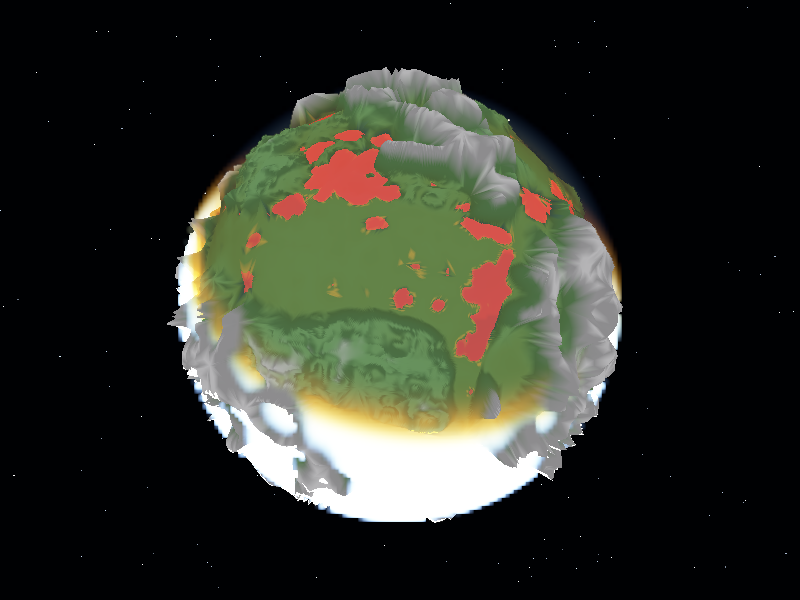
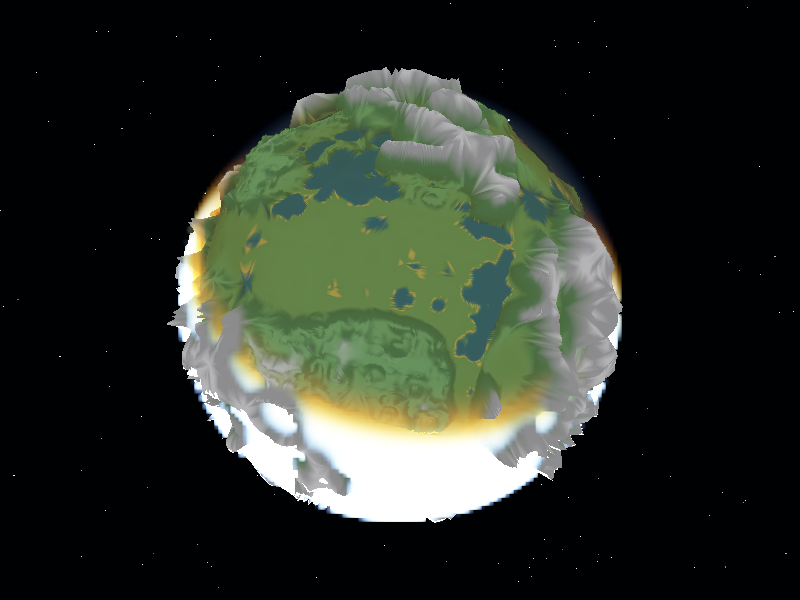
Keep reflected day scene off night-side oceans

diff --git a/tests/lighting/test_terrain_shadow_render.cpp b/tests/lighting/test_terrain_shadow_render.cpp
@@ -50,7 +50,7 @@ public:
     Mesh ridges, sea;
     glm::dvec3 sun = glm::normalize(glm::dvec3(-1, 0, 1));
 
-    GLuint framebuffer = 0, colorBuffer = 0, depthBuffer = 0;
+    GLuint framebuffer = 0, colorBuffer = 0, depthBuffer = 0, reflectionTexture = 0;
 
     ShadowScene() {
         // Hidden windows can have an unallocated default framebuffer on native
@@ -69,6 +69,12 @@ public:
         glReadBuffer(GL_COLOR_ATTACHMENT0);
         if (glCheckFramebufferStatus(GL_FRAMEBUFFER) != GL_FRAMEBUFFER_COMPLETE)
             throw std::runtime_error("Shadow test framebuffer is incomplete");
+        glGenTextures(1, &reflectionTexture);
+        glActiveTexture(GL_TEXTURE0); glBindTexture(GL_TEXTURE_2D, reflectionTexture);
+        const float reflected[] = {0.8f, 0.8f, 0.8f, 1.0f};
+        glTexImage2D(GL_TEXTURE_2D, 0, GL_RGBA32F, 1, 1, 0, GL_RGBA, GL_FLOAT, reflected);
+        glTexParameteri(GL_TEXTURE_2D, GL_TEXTURE_MIN_FILTER, GL_NEAREST);
+        glTexParameteri(GL_TEXTURE_2D, GL_TEXTURE_MAG_FILTER, GL_NEAREST);
         settings.resolution = 512;
         buildRidges(ridges, true);
         for (auto p : {glm::vec3(-1, -1, 0.01), glm::vec3(1, -1, 0.01),
@@ -84,11 +90,13 @@ public:
         glDeleteFramebuffers(1, &framebuffer);
         glDeleteRenderbuffers(1, &colorBuffer);
         glDeleteRenderbuffers(1, &depthBuffer);
+        glDeleteTextures(1, &reflectionTexture);
     }
 
     Image render(bool waterSurface = false, glm::dvec3 indirect = glm::dvec3(0),
                  float waterRadiusScale = 1.0f, bool secondBody = false,
-                 bool planeReceiver = false, float exposure = 1.0f) {
+                 bool planeReceiver = false, float exposure = 1.0f,
+                 float reflectionFraction = 0.0f) {
         maps.ensure(secondBody ? 2 : 1, settings);
         if (settings.enabled) {
             maps.begin(0, depth, sun, 1.5);
@@ -129,8 +137,10 @@ public:
             shader.setFloat3("uCameraPosition", 0, 0, 3);
             shader.setFloat3("uWaterColor", 1, 1, 1);
             shader.setFloat("uOpacity", 1);
-            shader.setFloat("uReflectionFraction", 0);
+            shader.setFloat("uReflectionFraction", reflectionFraction);
             shader.setInt("uReflectionTexture", 0);
+            glActiveTexture(GL_TEXTURE0);
+            glBindTexture(GL_TEXTURE_2D, reflectionTexture);
             shader.setMat4("uReflectionViewProjection", glm::value_ptr(glm::mat4(1)));
             sea.draw();
         } else if (planeReceiver) sea.draw();
@@ -188,6 +198,19 @@ TEST(TerrainShadowRender, ShadowsWaterAndAccountsForItsDifferentRadius) {
     }
 }
 
+TEST(TerrainShadowRender, NightOceanDoesNotMirrorBrightDayScene) {
+    ShadowScene scene;
+    const glm::dvec3 indirect(0.001, 0.001, 0.001);
+    scene.sun = {0,0,-1}; // Sea faces the camera, but the Sun is behind it.
+    const auto night = scene.render(true, indirect, 1, false, false, 1, 1);
+    for (int x : {-0.7f, 0.0f, 0.7f}) {
+        const auto value = pixel(night,x);
+        for (int c : value) EXPECT_LT(c, 25) << "night water x=" << x;
+    }
+    scene.sun = {0,0,1};
+    const auto day = scene.render(true, indirect, 1, false, false, 1, 1);
+    EXPECT_GT(pixel(day,0.7)[0], 150);
+}
 TEST(TerrainShadowRender, SunMotionResolutionReloadAndOtherBodiesDoNotLeaveStaleMaps) {
     ShadowScene scene;
     for (int resolution : {256, 1024, 512}) {

diff --git a/docs/captures/GENERATION.md b/docs/captures/GENERATION.md
@@ -4,24 +4,24 @@
 
 All 12 README images were regenerated with the current renderer. Earlier capture dates and versions were not recorded.
 
-Base source revision: `1eafe2bbb37d721c525e8284864b37e4f34fa6de` plus the working-tree changes identified by the source fingerprint.
+Base source revision: `47394a72bb3e19492565339a6c6b146c8a003cf7` plus the working-tree changes identified by the source fingerprint.
 Build: RelWithDebInfo. Display: Xvfb. OpenGL: Mesa llvmpipe (software rendering).
 The performance panel reports this capture environment, not hardware GPU performance.
 
 | Image | Version | Last generated (UTC) |
 | --- | --- | --- |
-| [solar-view.png](../screenshots/solar-view.png) | 0.0.1 | 2026-09-28T14:38:41+00:00 |
-| [surface-view.png](../screenshots/surface-view.png) | 0.0.1 | 2026-09-28T14:38:42+00:00 |
-| [planet-orbit.png](../screenshots/planet-orbit.png) | 0.0.1 | 2026-09-28T14:38:44+00:00 |
-| [moonlit-night.png](../screenshots/moonlit-night.png) | 0.0.1 | 2026-09-28T14:38:44+00:00 |
-| [moonless-night.png](../screenshots/moonless-night.png) | 0.0.1 | 2026-09-28T14:38:45+00:00 |
-| [performance-overlay.png](../screenshots/performance-overlay.png) | 0.0.1 | 2026-09-28T14:39:06+00:00 |
-| [atmosphere-day.png](../screenshots/atmosphere-day.png) | 0.0.1 | 2026-09-28T14:39:10+00:00 |
-| [atmosphere-sunset.png](../screenshots/atmosphere-sunset.png) | 0.0.1 | 2026-09-28T14:39:13+00:00 |
-| [atmosphere-mist.png](../screenshots/atmosphere-mist.png) | 0.0.1 | 2026-09-28T14:39:16+00:00 |
-| [atmosphere-dust.png](../screenshots/atmosphere-dust.png) | 0.0.1 | 2026-09-28T14:39:19+00:00 |
-| [twilight.png](../screenshots/twilight.png) | 0.0.1 | 2026-09-28T14:39:22+00:00 |
-| [terrain-shadows.png](../screenshots/terrain-shadows.png) | 0.0.1 | 2026-09-28T14:39:22+00:00 |
+| [solar-view.png](../screenshots/solar-view.png) | 0.0.1 | 2026-09-28T14:42:26+00:00 |
+| [surface-view.png](../screenshots/surface-view.png) | 0.0.1 | 2026-09-28T14:42:28+00:00 |
+| [planet-orbit.png](../screenshots/planet-orbit.png) | 0.0.1 | 2026-09-28T14:42:29+00:00 |
+| [moonlit-night.png](../screenshots/moonlit-night.png) | 0.0.1 | 2026-09-28T14:42:30+00:00 |
+| [moonless-night.png](../screenshots/moonless-night.png) | 0.0.1 | 2026-09-28T14:42:30+00:00 |
+| [performance-overlay.png](../screenshots/performance-overlay.png) | 0.0.1 | 2026-09-28T14:42:49+00:00 |
+| [atmosphere-day.png](../screenshots/atmosphere-day.png) | 0.0.1 | 2026-09-28T14:42:53+00:00 |
+| [atmosphere-sunset.png](../screenshots/atmosphere-sunset.png) | 0.0.1 | 2026-09-28T14:42:56+00:00 |
+| [atmosphere-mist.png](../screenshots/atmosphere-mist.png) | 0.0.1 | 2026-09-28T14:42:59+00:00 |
+| [atmosphere-dust.png](../screenshots/atmosphere-dust.png) | 0.0.1 | 2026-09-28T14:43:03+00:00 |
+| [twilight.png](../screenshots/twilight.png) | 0.0.1 | 2026-09-28T14:43:05+00:00 |
+| [terrain-shadows.png](../screenshots/terrain-shadows.png) | 0.0.1 | 2026-09-28T14:43:06+00:00 |
 
 Exact commands, image SHA-256 hashes and renderer details are in [generation.json](generation.json).
 Available [replay sidecars](replay/) preserve resolved scenes and cameras.

diff --git a/README.md b/README.md
@@ -714,8 +714,11 @@ switch their tessellation.
 uses 50% opacity and a 50% mix of water color and reflected sky/Sun
 light. Opaque terrain hides water above its level and remains visible through
 water below it. The reflection pass includes the sky and opaque bodies, including
-terrain, lit by the same sunlight and reflected body light. It does not refract
-the scene. The water shell uses the same
+terrain, lit by the same sunlight and reflected body light. The reflection
+mix fades to zero as local direct sunlight approaches the horizon or terrain
+blocks the Sun, so a bright reflected day scene cannot light the night ocean.
+Indirect water light remains. Reflections outside the reflected camera's view
+are ignored. The pass does not refract the scene. The water shell uses the same
 triangle budget as the land, but its uniformly subdivided geometry stays fixed
 while the camera moves because the sea has no height noise.
 

diff --git a/todo.md b/todo.md
@@ -47,7 +47,10 @@ if environmental changes are needed inside the container, let the user know by a
   attenuates direct view-path scattering. A GL test checks blocked/unblocked
   scattering and map binding; sunset stays warm with finite solar-disk
   twilight. All 35 tests passed and gallery refreshed.
-- Next row: stop sunlit ocean on the planet shadow side.
+- Night-side ocean is t: local Sun incidence and terrain shadows gate
+  reflections; invalid reflected-camera UVs are ignored. Indirect water light
+  remains. Dark/day GL regression, all 35 tests and gallery refresh passed.
+- Next row: O-key orbit visualization for planets and moons.
 
 # States: 
 |State |Meaning|
